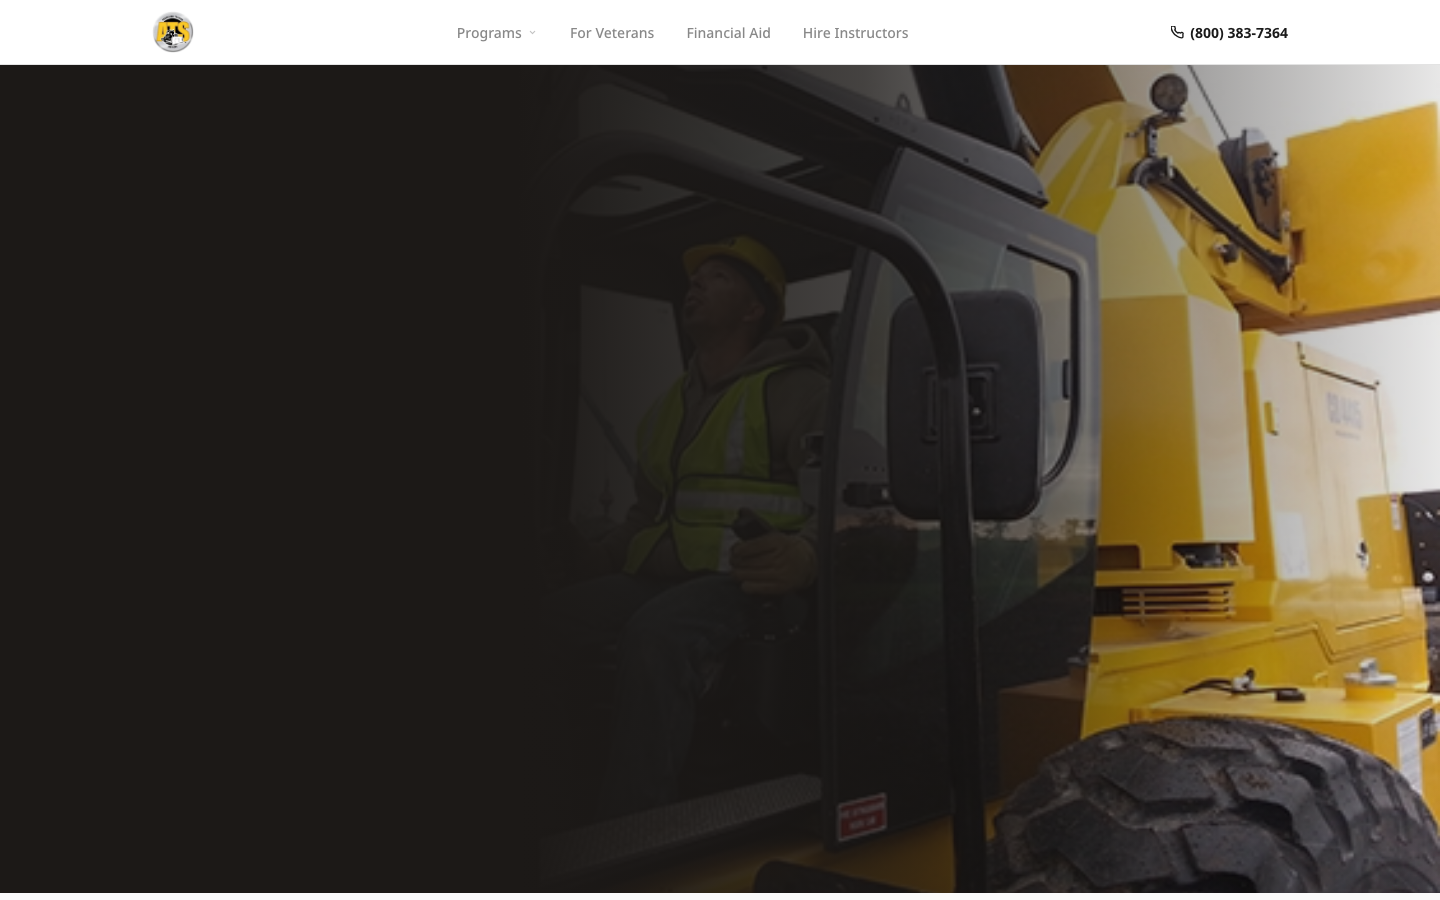
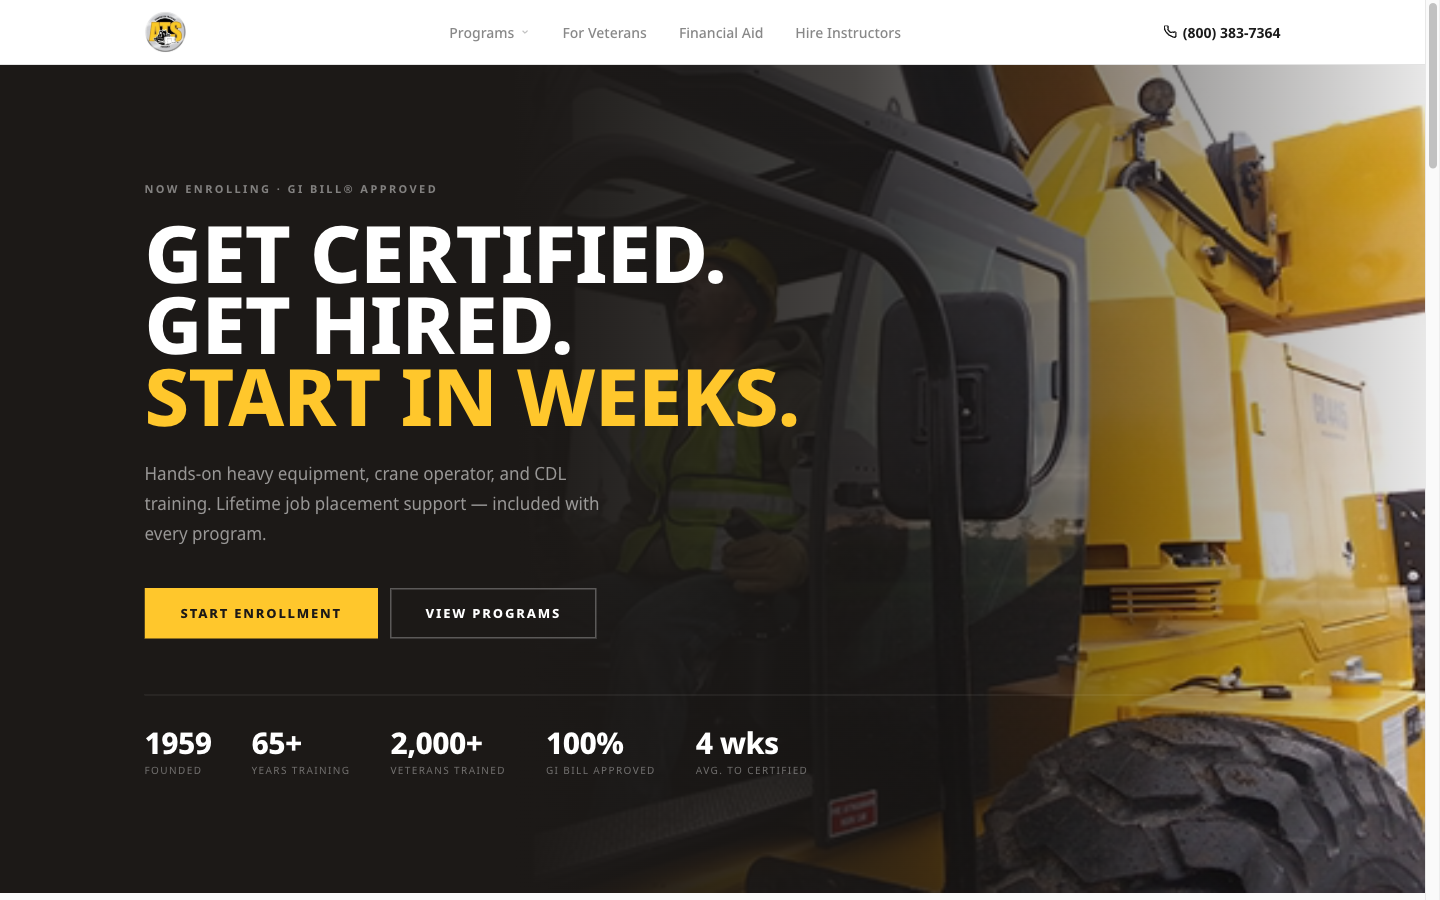
Rewrite how-it-works page copy and fix mobile/responsive bugs
- Replace the "18 frameworks" jargon list with plain, direct-response
  copy that speaks to lost revenue instead of citing a book or process name
- Remove pricing mention pending correct figures
- Fix nav CTA wrapping/overlapping the logo at narrow (320px) widths
- Fix desktop demo screenshots being horizontally cropped at narrower
  viewport widths (fixed-height container forced object-cover crop);
  now sized by aspect-ratio so images never crop the headline/sidebar
- Replace broken "after" screenshot that was captured before the page
  had finished rendering
- Rename step 1 to "Map your current path"

diff --git a/components/HowItWorksDemo.tsx b/components/HowItWorksDemo.tsx
@@ -32,8 +32,8 @@ type Step = {
 const steps: Step[] = [
   {
     number: "01",
-    title: "Map your buyer",
-    body: "We identify who makes the decision, what triggers it, and the exact language they use when they feel the problem you solve.",
+    title: "Map your current path",
+    body: "We trace how a visitor actually moves through your site today — where they hesitate, where they lose trust, and where they leave instead of buying.",
     screenshot: "/ops-before-hero.png",
     screenshotAlt: "ATS original site — the starting point",
     url: "operator-school.com",
@@ -43,7 +43,7 @@ const steps: Step[] = [
   {
     number: "02",
     title: "Find the breaks",
-    body: "18 frameworks run simultaneously across copy, UX, trust signals, SEO, and conversion. Every disconnection documented with evidence.",
+    body: "We check every part of the site at once — the words, the design, the trust signals, the path to checkout. Every gap gets documented with proof.",
     screenshot: "/ops-before-hero.png",
     screenshotAlt: "ATS original site — 18 gaps identified",
     url: "operator-school.com",
@@ -127,7 +127,7 @@ export default function HowItWorksDemo() {
 
                   {/* Number */}
                   <span
-                    className={`shrink-0 w-10 font-serif text-[2.25rem] font-bold leading-none tabular-nums transition-colors duration-300 ${
+                    className={`shrink-0 w-8 font-serif text-[1.75rem] font-bold leading-none tabular-nums transition-colors duration-300 sm:w-10 sm:text-[2.25rem] ${
                       active === i ? "text-[#123A5A]" : "text-zinc-300 group-hover:text-zinc-400"
                     }`}
                   >
@@ -224,14 +224,16 @@ export default function HowItWorksDemo() {
             </div>
 
             {/* Screenshot + annotations */}
-            <div className="relative overflow-hidden bg-zinc-100" style={{ height: 460 }}>
+            <div
+              className="relative overflow-hidden bg-zinc-100"
+              style={{ aspectRatio: "1440 / 900" }}
+            >
               {/* eslint-disable-next-line @next/next/no-img-element */}
               <img
                 key={imgKey}
                 src={step.screenshot}
                 alt={step.screenshotAlt}
-                className="w-full object-cover object-top hiw-img-fade"
-                style={{ height: 460 }}
+                className="h-full w-full object-cover object-top hiw-img-fade"
               />
 
               <div
@@ -291,13 +293,11 @@ export default function HowItWorksDemo() {
             <span className="inline-flex items-center gap-1.5 rounded-full bg-red-50 px-3 py-1 text-[10px] font-bold uppercase tracking-widest text-red-500">
               Before
             </span>
-            <div className="phone-frame">
-              <div className="phone-notch" />
+            <div className="phone-old">
               {/* eslint-disable-next-line @next/next/no-img-element */}
               <img
                 src="/ops-mobile-before.png"
                 alt="Original ATS site on mobile — cluttered layout"
-                className="w-full block rounded-[28px]"
               />
             </div>
             <p className="max-w-[150px] text-center text-[11px] leading-5 text-zinc-500">
@@ -317,13 +317,12 @@ export default function HowItWorksDemo() {
             <span className="inline-flex items-center gap-1.5 rounded-full bg-emerald-50 px-3 py-1 text-[10px] font-bold uppercase tracking-widest text-emerald-600">
               After
             </span>
-            <div className="phone-frame">
-              <div className="phone-notch" />
+            <div className="phone-new">
+              <div className="phone-island" />
               {/* eslint-disable-next-line @next/next/no-img-element */}
               <img
                 src="/ops-mobile-after.png"
                 alt="Rebuilt ATS site on mobile — clean hero, clear CTA"
-                className="w-full block rounded-[28px]"
               />
             </div>
             <p className="max-w-[150px] text-center text-[11px] leading-5 text-zinc-500">

diff --git a/app/how-it-works/page.tsx b/app/how-it-works/page.tsx
@@ -29,13 +29,13 @@ const howToSchema = {
   step: [
     {
       "@type": "HowToStep",
-      name: "Map Your Buyer",
-      text: "We identify who makes the decision, what triggers it, and the exact language they use when they feel the problem you solve.",
+      name: "Map Your Current Path",
+      text: "We trace how a visitor actually moves through your site today — where they hesitate, where they lose trust, and where they leave instead of buying.",
     },
     {
       "@type": "HowToStep",
       name: "Find the Breaks",
-      text: "18 frameworks run simultaneously across copy, UX, trust signals, SEO, and conversion. Every disconnection documented with evidence.",
+      text: "We check every part of the site at once — the words, the design, the trust signals, the path to checkout. Every gap gets documented with proof.",
     },
     {
       "@type": "HowToStep",
@@ -51,15 +51,15 @@ const howToSchema = {
 };
 
 const frameworks = [
-  "Positioning & Differentiation",
-  "Copy & Emotional Resonance",
-  "UX & Cognitive Load",
-  "Visual Design & Trust",
-  "Conversion Architecture",
-  "SEO & Content Authority",
-  "AI Search Readiness (AEO)",
-  "Accessibility (WCAG 2.2)",
-  "Growth Systems & Lead Capture",
+  "Show what makes you different",
+  "Use words people understand",
+  "Make the site easy to use",
+  "Look trustworthy",
+  "Give one clear next step, not ten",
+  "Show up on Google",
+  "Show up in AI search, like ChatGPT",
+  "Work for everyone, including disabled users",
+  "Capture new leads automatically",
 ];
 
 export default function HowItWorksPage() {
@@ -80,7 +80,10 @@ export default function HowItWorksPage() {
             <p className="text-xs font-bold uppercase tracking-[0.28em] text-[#1B5EA8]">
               How it works
             </p>
-            <h1 className="mt-4 font-serif t-display text-[#111111]">
+            <h1
+              className="mt-4 font-serif t-display text-[#111111]"
+              style={{ fontSize: "clamp(2rem, 1.6rem + 2.5vw, 4rem)" }}
+            >
               We treat every business as a system.
             </h1>
             <p className="mt-5 t-body text-[#3f3f46]">
@@ -99,11 +102,17 @@ export default function HowItWorksPage() {
         <section className="mx-auto max-w-3xl px-4 py-6 sm:px-6">
           <div className="rounded-2xl border border-zinc-200 bg-white p-8">
             <p className="text-xs font-bold uppercase tracking-[0.28em] text-[#1B5EA8]">
-              18 frameworks
+              One broken part is all it takes
             </p>
             <h2 className="mt-3 font-serif t-heading text-[#111111]">
-              Every layer of your site, examined.
+              You&apos;re not losing customers. You&apos;re losing them at one exact spot.
             </h2>
+            <p className="mt-4 text-sm leading-6 text-[#3f3f46]">
+              Someone who wanted to buy hit something confusing, slow, or
+              missing — and left. More traffic won&apos;t fix that. More
+              content won&apos;t fix that. We find that exact spot, fix it
+              first, then move to the next one.
+            </p>
             <ul className="mt-6 grid grid-cols-1 gap-3 sm:grid-cols-2">
               {frameworks.map((f) => (
                 <li key={f} className="flex items-center gap-2 text-sm text-[#3f3f46]">
@@ -117,9 +126,6 @@ export default function HowItWorksPage() {
           <div className="mt-6 rounded-2xl border border-zinc-200 bg-white p-8">
             <p className="font-semibold text-[#111111]">
               Ready to see what&apos;s costing you revenue?
-            </p>
-            <p className="mt-2 text-sm leading-6 text-[#3f3f46]">
-              Full audit starts from $1,500. Copy rewrites included.
             </p>
             <a
               href="mailto:abdullah@elliyeen.com?subject=Website%20audit%20inquiry%20%E2%80%94%20let%27s%20work%20together&body=Hi%20Abbas%2C%0A%0AI%27d%20like%20to%20get%20my%20website%20audited%20by%20Elliyeen.%0A%0AWebsite%3A%20%5Bpaste%20your%20URL%20here%5D%0A%0ALooking%20forward%20to%20it."

diff --git a/app/SiteNav.tsx b/app/SiteNav.tsx
@@ -108,7 +108,7 @@ export default function SiteNav() {
         <div className="flex items-center gap-3">
           <a
             href="mailto:abdullah@elliyeen.com?subject=Website%20audit%20inquiry%20%E2%80%94%20let%27s%20work%20together&body=Hi%20Abbas%2C%0A%0AI%27d%20like%20to%20get%20my%20website%20audited%20by%20Elliyeen.%0A%0AWebsite%3A%20%5Bpaste%20your%20URL%20here%5D%0A%0ALooking%20forward%20to%20it."
-            className="inline-flex min-h-[44px] items-center gap-2 rounded-full bg-[#123A5A] px-6 text-sm font-bold text-[#F5F1E7] shadow-[0_6px_28px_rgba(18,58,90,0.22)] transition-colors duration-200 hover:bg-[#D87A24] active:bg-[#b8620e]"
+            className="inline-flex min-h-[44px] items-center gap-2 whitespace-nowrap rounded-full bg-[#123A5A] px-3 text-xs font-bold text-[#F5F1E7] shadow-[0_6px_28px_rgba(18,58,90,0.22)] transition-colors duration-200 hover:bg-[#D87A24] active:bg-[#b8620e] sm:px-6 sm:text-sm"
           >
             Get Started
           </a>
